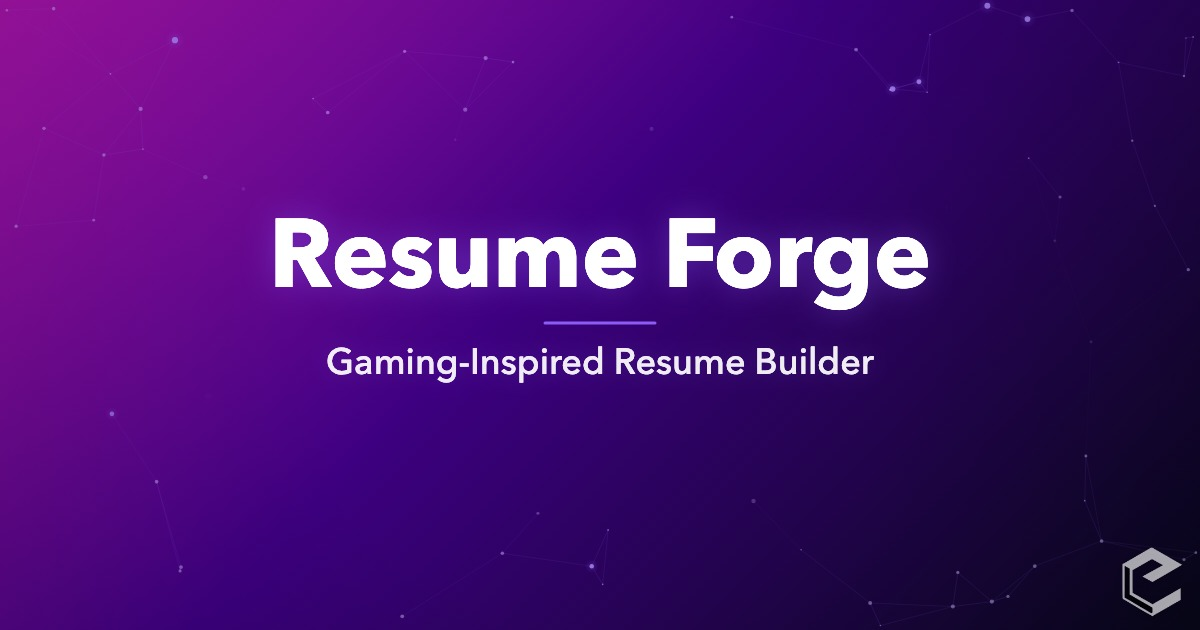
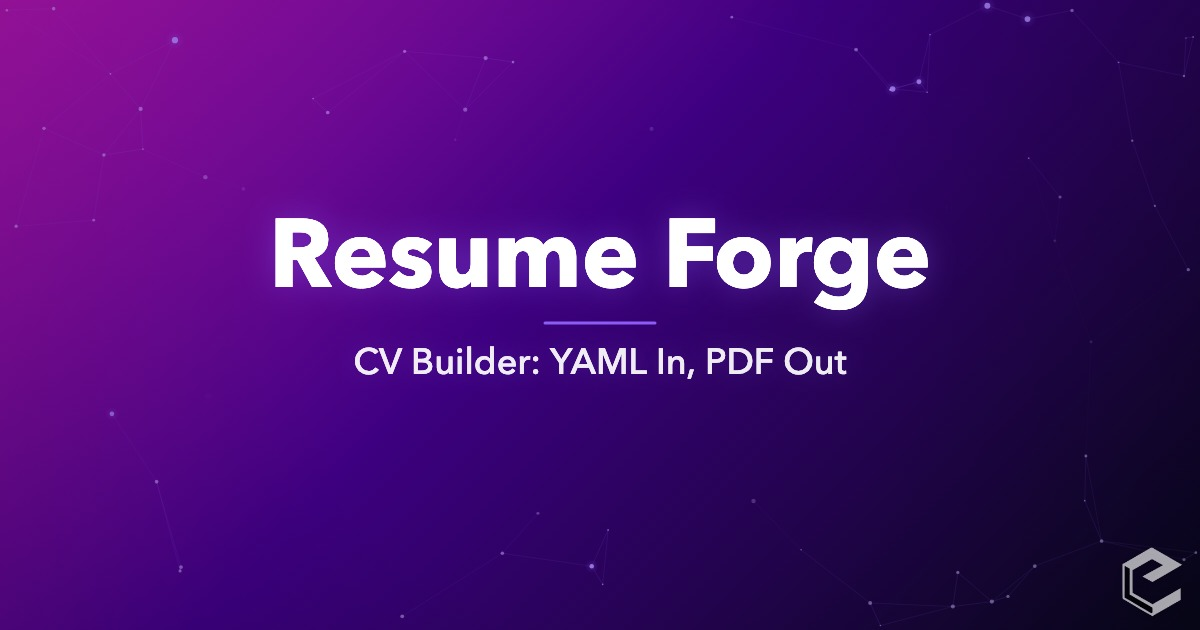
feat(og): dispatch, gambit, scalpel, stake previews; refresh pixeldoll and resume-forge
Four new gallery entries with generated 1200x630 assets (scalpel still
carries a CHANGE ME subtitle pending its launch; dispatch, gambit and stake
are final). Pipeline run also refreshed two existing renders.

Changed region(s): [[0.2775, 0.5429, 0.74, 0.6032]]

diff --git a/js/state.js b/js/state.js
@@ -2,6 +2,10 @@ export const W = 1200;
 export const H = 630;
 
 export const sites = [
+  { id: 'dispatch', title: 'Dispatch', subtitle: 'Fleet news, approved at the desk', accent: '#3b82f6', domain: 'dispatch.neorgon.com' },
+  { id: 'gambit', title: 'Gambit', subtitle: 'Game patterns, and the drills that prove them', accent: '#a855f7', domain: 'gambit.neorgon.com' },
+  { id: 'stake', title: 'Stake', subtitle: 'Bet your life cards. Keep enough to guard.', accent: '#eab308', domain: 'stake.neorgon.com' },
+  { id: 'scalpel', title: 'Scalpel', subtitle: 'CHANGE ME (~40 chars)', accent: '#5eead4', domain: 'scalpel.neorgon.com' },
   { id: 'pixeldoll', title: 'Pixeldoll', subtitle: 'Pixel characters for every Neorgon tool', accent: '#ec4899', domain: 'pixeldoll.neorgon.com' },
   { id: 'floorplan', title: 'Floorplan', subtitle: 'Team maps with rooms and shared spaces', accent: '#0369a1', domain: 'floorplan.neorgon.com' },
   { id: 'mosaic', title: 'Mosaic', subtitle: 'Change the layout, keep the photos', accent: '#f43f5e', domain: 'mosaic.neorgon.com' },
